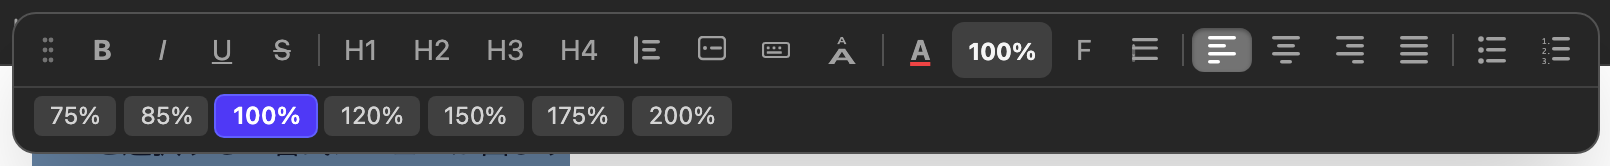
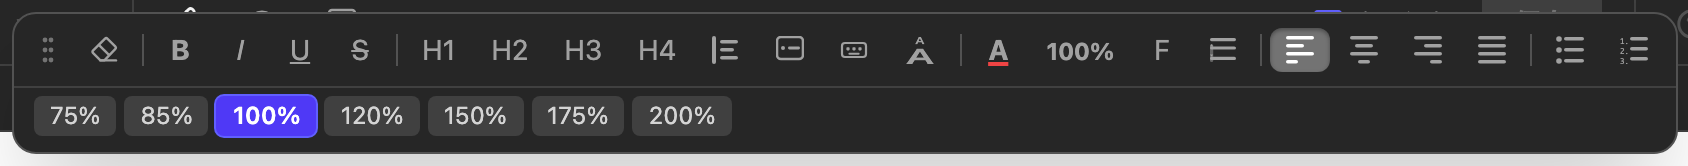
文字を選んだときのメニューの左端に消しゴムを追加。選んだ文字の装飾（太字・色・大きさ・書体など）をまとめて外す。リンクとルビは残す

diff --git a/src/editor.js b/src/editor.js
@@ -115,7 +115,7 @@ export {
 // CONSTANTS
 // ═══════════════════════════════════════════════════════════════════════════════
 
-export const VERSION = '2.44.1'
+export const VERSION = '2.45.0'
 
 /** 変更の通知（onBlockChange）と、保留中のリモート更新を確定する無操作時間 (ms) */
 const HIST_DEBOUNCE_MS = 400
@@ -499,6 +499,12 @@ const ICON = {
     `<polyline points="10,6.5 11.8,9 10,11.5"/>` +
     `<line x1="8.6" y1="5.5" x2="7.4" y2="12.5" opacity="0.7"/>` +
   `</svg>`,
+  // Eraser — 斜めの消しゴム＋下の線（文字装飾をすべて外す）
+  clearFormat: `<svg width="14" height="14" viewBox="0 0 14 14" fill="none" stroke="currentColor" stroke-width="1.2" stroke-linejoin="round" aria-hidden="true">` +
+    `<path d="M5.2 12.2 1.6 8.6a1 1 0 0 1 0-1.4L7.4 1.4a1 1 0 0 1 1.4 0l3.8 3.8a1 1 0 0 1 0 1.4L7.2 12.2Z"/>` +
+    `<path d="M4.4 4.4 9.6 9.6" />` +
+    `<path d="M5.2 12.2H13" stroke-linecap="round"/>` +
+  `</svg>`,
   // Blockquote — left vertical bar + three horizontal text lines
   quote: _icn(
     `<rect x="0" y="0" width="2" height="14" rx="1"/>` +
@@ -594,6 +600,7 @@ const EMOJI_LIST = [
  * ここに登録されていれば自動で title / aria-label に流れる。
  */
 const POPM_TITLES = {
+  clearFormat:         '文字装飾をすべて外す（太字・色・大きさ・書体など。リンクとルビは残す）',
   bold:                '太字 (Ctrl/⌘+B)',
   italic:              '斜体 (Ctrl/⌘+I)',
   underline:           '下線 (Ctrl/⌘+U)',
@@ -1196,6 +1203,21 @@ export function findCell(node) {
     el = el.parentElement
   }
   return null
+}
+
+/** 文字の装飾として外せるタグ（消しゴム）。リンク・ルビは文字の内容なので入れない。 */
+const INLINE_FORMAT_TAGS = new Set(['B', 'STRONG', 'I', 'EM', 'U', 'INS', 'S', 'STRIKE', 'DEL', 'FONT',
+  'KBD', 'CODE', 'MARK', 'SMALL', 'BIG', 'SUB', 'SUP', 'TT', 'SAMP', 'VAR'])
+
+/**
+ * 消しゴムで外す要素か。<span> は style だけを持つもの（色・大きさ・書体）に限る —
+ * クラスや data-* を持つ <span> はエディタの部品や機能の記法かもしれない。
+ * <pre> の中の <code> はコードブロックの本体なので外さない。
+ */
+export function isInlineFormatEl(el) {
+  if (el.tagName === 'SPAN') return [...el.attributes].every((a) => a.name === 'style')
+  if (el.tagName === 'CODE' && el.closest('pre')) return false
+  return INLINE_FORMAT_TAGS.has(el.tagName)
 }
 
 /**
@@ -7167,6 +7189,8 @@ export class KuroEditor {
     this.popm.setClearColorFn(() => this._clearColor())
     this.popm.setApplyColorFn((color) => this._applyColor(color))
     this.popm
+      .addButton(ICON.clearFormat, 'clearFormat', () => this._clearInlineFormat())
+      .addDivider()
       .addButton('<b>B</b>',  'bold',          () => this._format('bold'))
       .addButton('<i>I</i>',  'italic',        () => this._format('italic'))
       .addButton('<u>U</u>',  'underline',     () => this._format('underline'))
@@ -10458,6 +10482,60 @@ export class KuroEditor {
    * rather than replacing with a new colour.  Mirrors the heading-toggle-off
    * approach: remove only what was added, leave everything else intact.
    */
+/**
+   * 選択した文字の装飾をすべて外す（v2.45.0〜。popm の左端の消しゴム）。
+   *
+   * 外から貼った文字を「文字だけ」にして装飾をやり直すためのもの。外すのは
+   * 文字の装飾（{@link INLINE_FORMAT_TAGS}・style だけの <span>）。**リンクとルビは
+   * 残す**（行き先・読みは文字の内容であって装飾ではない）。段落・見出し・寄せなどの
+   * 行の形も触らない（行のメニューで直す）。
+   *
+   * ⚠ 選択の境目で装飾の要素を【割ってから】外す。選択の外の文字の装飾まで消すと、
+   *   「この語だけ太字を外したい」で行全体の太字が消える（既存の色の解除はそうなる）。
+   *   境目には目印を置き、割った後の選択はそこから組み直す（割ると Range がずれる）。
+   */
+  _clearInlineFormat() {
+    const sel = window.getSelection()
+    if (!sel?.rangeCount || sel.isCollapsed) return
+    const range = sel.getRangeAt(0)
+    if (!this.wysiwyg.contains(range.commonAncestorContainer)) return
+    const mark = () => { const m = document.createElement('span'); m.setAttribute('data-kuro-clear-mark', ''); return m }
+    const ms = mark(), me = mark()
+    const endR = range.cloneRange(); endR.collapse(false); endR.insertNode(me)
+    const startR = range.cloneRange(); startR.collapse(true); startR.insertNode(ms)
+    const isFormat = (el) => el?.nodeType === 1 && el !== this.wysiwyg && isInlineFormatEl(el) &&
+      !el.closest('[contenteditable="false"]')
+    const emptyFormat = (el) => isFormat(el) && !el.textContent && !el.querySelector('img,br,video,audio,iframe')
+    // 目印を、それを包む装飾の要素の外へ出す（要素は目印の所で 2 つに割る）
+    const lift = (m) => {
+      let top = null
+      for (let p = m.parentElement; p && isFormat(p); p = p.parentElement) top = p
+      if (!top) return
+      const r = document.createRange()
+      r.setStartAfter(m); r.setEnd(top, top.childNodes.length)
+      const right = top.cloneNode(false)
+      right.removeAttribute('id')
+      right.append(r.extractContents())
+      top.after(right)
+      top.after(m)
+      for (const el of [top, right]) if (emptyFormat(el)) el.remove()
+    }
+    lift(me); lift(ms)
+    // 目印の間の装飾をほどく
+    const inner = document.createRange()
+    inner.setStartAfter(ms); inner.setEndBefore(me)
+    const targets = [...this.wysiwyg.querySelectorAll('*')].filter((el) => isFormat(el) && inner.intersectsNode(el))
+    for (const el of targets) {
+      if (!el.isConnected) continue
+      el.replaceWith(...el.childNodes)
+    }
+    // 選択を目印の所に組み直して、目印を消す
+    const at = (m) => { const i = [...m.parentNode.childNodes].indexOf(m); const p = m.parentNode; m.remove(); return [p, i] }
+    const [sp, si] = at(ms)
+    const [ep, ei] = at(me)
+    try { sel.setBaseAndExtent(sp, si, ep, ei) } catch (_) {}
+  }
+
   _clearColor() {
     const sel = window.getSelection()
     if (!sel?.rangeCount) return

diff --git a/public/guide/index.html b/public/guide/index.html
@@ -421,12 +421,12 @@
 
       <h2 id="paste">他のページから貼り付ける</h2>
       <p>
-        Web ページや Word などからコピーして貼り付けると、<strong>見た目の指定は落として</strong>取り込みます。
-        残るのは<strong>このエディタで直せるものだけ</strong>（太字・斜体・文字サイズ・寄せ・行間・字下げ）で、
-        字間や余白、影といった<strong>ここでは変更できない指定は捨てられます</strong>。
+        Web ページや Word などからコピーして貼り付けると、<strong>このエディタで付けられる装飾の形</strong>に写して取り込みます。
+        残るのは<strong>このエディタで直せるものだけ</strong>（太字・斜体・文字色・文字サイズ・書体・寄せ・行間・字下げ・表の罫線）で、
+        字間や余白、影といった<strong>ここでは変更できない指定は捨てられます</strong>。文字そのものは消えません。
       </p>
       <ul>
-        <li>文字色・背景色も落とします。暗い配色のページからコピーすると、<strong>公開ページで白い文字が読めなくなる</strong>ためです。</li>
+        <li>文字サイズは、元のページでいちばん多い大きさを「標準（100%）」として読み替えます。</li>
         <li>リンクはそのまま残り、リンク編集ポップアップで直せる形に整えられます。</li>
         <li>表は KuroEditor の表として取り込まれ、罫線や列幅を後から編集できます。</li>
         <li>Excel やスプレッドシートの範囲をコピーして貼れば、そのまま<strong>表</strong>になります。</li>
@@ -434,17 +434,16 @@
       <div class="box box-tip">
         <div class="box-icon">💡</div>
         <div>
-          貼り付けた文章の見た目が元と違っても、それは<strong>意図した動き</strong>です。
-          持ち込んだ指定は編集画面から直せないので、あえて落としています
-          （元の体裁が必要なときは、貼り付けたあとにこのエディタの機能で付け直してください）。
+          元の色や太字が要らないときは、貼った文章を選択して、ポップアップメニューの左端の<strong>消しゴム</strong>を押してください。
+          <strong>文字の装飾がまとめて外れ</strong>、文字だけになります（リンクとルビは残ります）。そこから装飾をやり直せます。
         </div>
       </div>
 
       <h2 id="decorate">文字の装飾</h2>
       <p>文字を選択すると出るポップアップメニューから操作します。</p>
       <figure class="shot">
-        <img src="./img/popm.png" alt="文字を選択すると出るポップアップメニュー。左から 太字・斜体・下線・打ち消し線／見出し／引用・囲み・キー表記・ルビ／文字色・サイズ・フォント・行間／寄せ／リスト。" loading="lazy">
-        <figcaption>文字を選択すると出るポップアップメニュー。左から 太字・斜体・下線・打ち消し線／見出し／引用・囲み・キー表記・ルビ／文字色・サイズ・フォント・行間／寄せ／リスト。</figcaption>
+        <img src="./img/popm.png" alt="文字を選択すると出るポップアップメニュー。左から 消しゴム（装飾をすべて外す）／太字・斜体・下線・打ち消し線／見出し／引用・囲み・キー表記・ルビ／文字色・サイズ・フォント・行間／寄せ／リスト。" loading="lazy">
+        <figcaption>文字を選択すると出るポップアップメニュー。左から 消しゴム（装飾をすべて外す）／太字・斜体・下線・打ち消し線／見出し／引用・囲み・キー表記・ルビ／文字色・サイズ・フォント・行間／寄せ／リスト。</figcaption>
       </figure>
       <figure class="shot" style="max-width:620px">
         <img src="./img/popm-color.png" alt="「A」を押すと文字色のパレットが開きます（使った色は下に貯まります）。" loading="lazy">
@@ -455,6 +454,7 @@
         <table>
           <thead><tr><th>機能</th><th>内容</th></tr></thead>
           <tbody>
+            <tr><td>消しゴム（左端）</td><td>選んだ文字の装飾（太字・斜体・下線・打ち消し線・文字色・サイズ・書体・キー表記）を<strong>まとめて外します</strong>。リンクとルビ、見出しや寄せなどの行の形は残ります。選んでいない部分の装飾はそのままです。</td></tr>
             <tr><td>太字・斜体・下線・打ち消し線</td><td><kbd>Ctrl</kbd>/<kbd>⌘</kbd>+<kbd>B</kbd> / <kbd>I</kbd> / <kbd>U</kbd> でも。</td></tr>
             <tr><td>文字色</td><td>パレットから選択（背景色はありません）。</td></tr>
             <tr><td>見出し</td><td>H1〜H4。付けた見出しは<a href="#toc">右の目次</a>に自動で並びます。</td></tr>

diff --git a/tests/clear-format.test.js b/tests/clear-format.test.js
@@ -1,0 +1,86 @@
+/**
+ * popm の左端の消しゴム — 選択した文字の装飾をすべて外す（v2.45.0〜）。
+ * 外から貼った文字を「文字だけ」にして、装飾をやり直すためのもの。
+ */
+import { describe, it, expect, beforeEach } from 'vitest'
+import { KuroEditor, isInlineFormatEl } from '../src/editor.js'
+
+function makeEditor(html) {
+  const mount = document.createElement('div')
+  document.body.appendChild(mount)
+  const ed = new KuroEditor(mount, {})
+  ed.wysiwyg.innerHTML = html
+  return ed
+}
+
+/** 文字 `from` から `to` までを選ぶ（同じテキストノードの中でも、別のノードでも）。 */
+function select(ed, from, to) {
+  const w = document.createTreeWalker(ed.wysiwyg, NodeFilter.SHOW_TEXT)
+  let s = null, e = null
+  for (let t = w.nextNode(); t; t = w.nextNode()) {
+    if (!s && t.data.includes(from)) s = [t, t.data.indexOf(from)]
+    if (t.data.includes(to)) e = [t, t.data.indexOf(to) + to.length]
+  }
+  window.getSelection().setBaseAndExtent(s[0], s[1], e[0], e[1])
+}
+
+describe('消しゴム（文字装飾をすべて外す）', () => {
+  beforeEach(() => { document.body.innerHTML = '' })
+
+  it('popm の一番左（つまみの次）にある', () => {
+    const ed = makeEditor('<p>a</p>')
+    const btns = [...ed.popm._mainRow.querySelectorAll('button.kuro-popm__btn')]
+    expect(btns[0].dataset.command).toBe('clearFormat')
+    expect(btns[0].getAttribute('title')).toContain('文字装飾をすべて外す')
+  })
+
+  it('太字・斜体・下線・色・大きさ・書体を外し、文字は残す', () => {
+    const ed = makeEditor('<p><strong><em><u><span style="color: #e11d48; font-size: 150%; font-family: serif">装飾</span></u></em></strong></p>')
+    select(ed, '装飾', '装飾')
+    ed._clearInlineFormat()
+    expect(ed.wysiwyg.innerHTML).toBe('<p>装飾</p>')
+  })
+
+  it('選択の外の装飾は残す（境目で要素を割る）', () => {
+    const ed = makeEditor('<p><strong>前の中の後</strong></p>')
+    select(ed, '中', '中')
+    ed._clearInlineFormat()
+    expect(ed.wysiwyg.innerHTML).toBe('<p><strong>前の</strong>中<strong>の後</strong></p>')
+    expect(window.getSelection().toString()).toBe('中')   // 選択はそのまま
+  })
+
+  it('複数の行にまたがって外せる', () => {
+    const ed = makeEditor('<p><s>一行目</s></p><h2><span style="color: #2563eb">二行目</span></h2>')
+    select(ed, '一行目', '二行目')
+    ed._clearInlineFormat()
+    expect(ed.wysiwyg.innerHTML).toBe('<p>一行目</p><h2>二行目</h2>')   // 行の形（見出し）は触らない
+  })
+
+  it('リンクとルビは残す（行き先・読みは文字の内容）', () => {
+    const ed = makeEditor('<p><strong><a href="https://a.example/">リンク</a><ruby>漢字<rt>かんじ</rt></ruby></strong></p>')
+    select(ed, 'リンク', 'かんじ')
+    ed._clearInlineFormat()
+    expect(ed.wysiwyg.innerHTML).toBe('<p><a href="https://a.example/">リンク</a><ruby>漢字<rt>かんじ</rt></ruby></p>')
+  })
+
+  it('エディタの部品・機能の記法を持つ <span> とコードブロックは外さない', () => {
+    const span = (attrs) => Object.assign(document.createElement('span'), attrs)
+    expect(isInlineFormatEl(span({}))).toBe(true)
+    const s1 = document.createElement('span'); s1.setAttribute('style', 'color: red')
+    expect(isInlineFormatEl(s1)).toBe(true)
+    const s2 = document.createElement('span'); s2.setAttribute('data-x', '1')
+    expect(isInlineFormatEl(s2)).toBe(false)
+    const s3 = document.createElement('span'); s3.className = 'kuro-emoji'
+    expect(isInlineFormatEl(s3)).toBe(false)
+    const pre = document.createElement('pre'); pre.innerHTML = '<code>x</code>'
+    expect(isInlineFormatEl(pre.firstChild)).toBe(false)
+  })
+
+  it('選択が無ければ何もしない', () => {
+    const ed = makeEditor('<p><strong>a</strong></p>')
+    const t = ed.wysiwyg.querySelector('strong').firstChild
+    window.getSelection().setBaseAndExtent(t, 0, t, 0)
+    ed._clearInlineFormat()
+    expect(ed.wysiwyg.innerHTML).toBe('<p><strong>a</strong></p>')
+  })
+})

diff --git a/public/index.html b/public/index.html
@@ -130,7 +130,7 @@
     <div class="max-w-6xl mx-auto px-6 py-24 sm:py-32 text-center">
       <div class="inline-flex items-center gap-2 px-3 py-1 rounded-full bg-indigo-500/10 border border-indigo-500/30 text-indigo-300 text-xs font-medium mb-6">
         <span class="w-1.5 h-1.5 rounded-full bg-indigo-400 animate-pulse"></span>
-        <span data-i18n="hero.badge">v2.44.1 — 公開中</span>
+        <span data-i18n="hero.badge">v2.45.0 — 公開中</span>
       </div>
 
       <h1 class="text-5xl sm:text-6xl lg:text-7xl font-bold tracking-tight mb-6" data-i18n="hero.title">

diff --git a/public/sample/index.html b/public/sample/index.html
@@ -6,8 +6,8 @@
   <title>KuroEditor — Sample</title>
 
   <!-- KuroEditor 本体 -->
-  <link rel="stylesheet" href="../kuro-editor.css?v=2.44.1" />
-  <script src="../kuro-editor.js?v=2.44.1" defer></script>
+  <link rel="stylesheet" href="../kuro-editor.css?v=2.45.0" />
+  <script src="../kuro-editor.js?v=2.45.0" defer></script>
 
   <!-- 動作確認用 Web フォント (5 種類):
        ホストが <link> を増やせば、 KuroEditor の Web-Fonts ピッカーに
